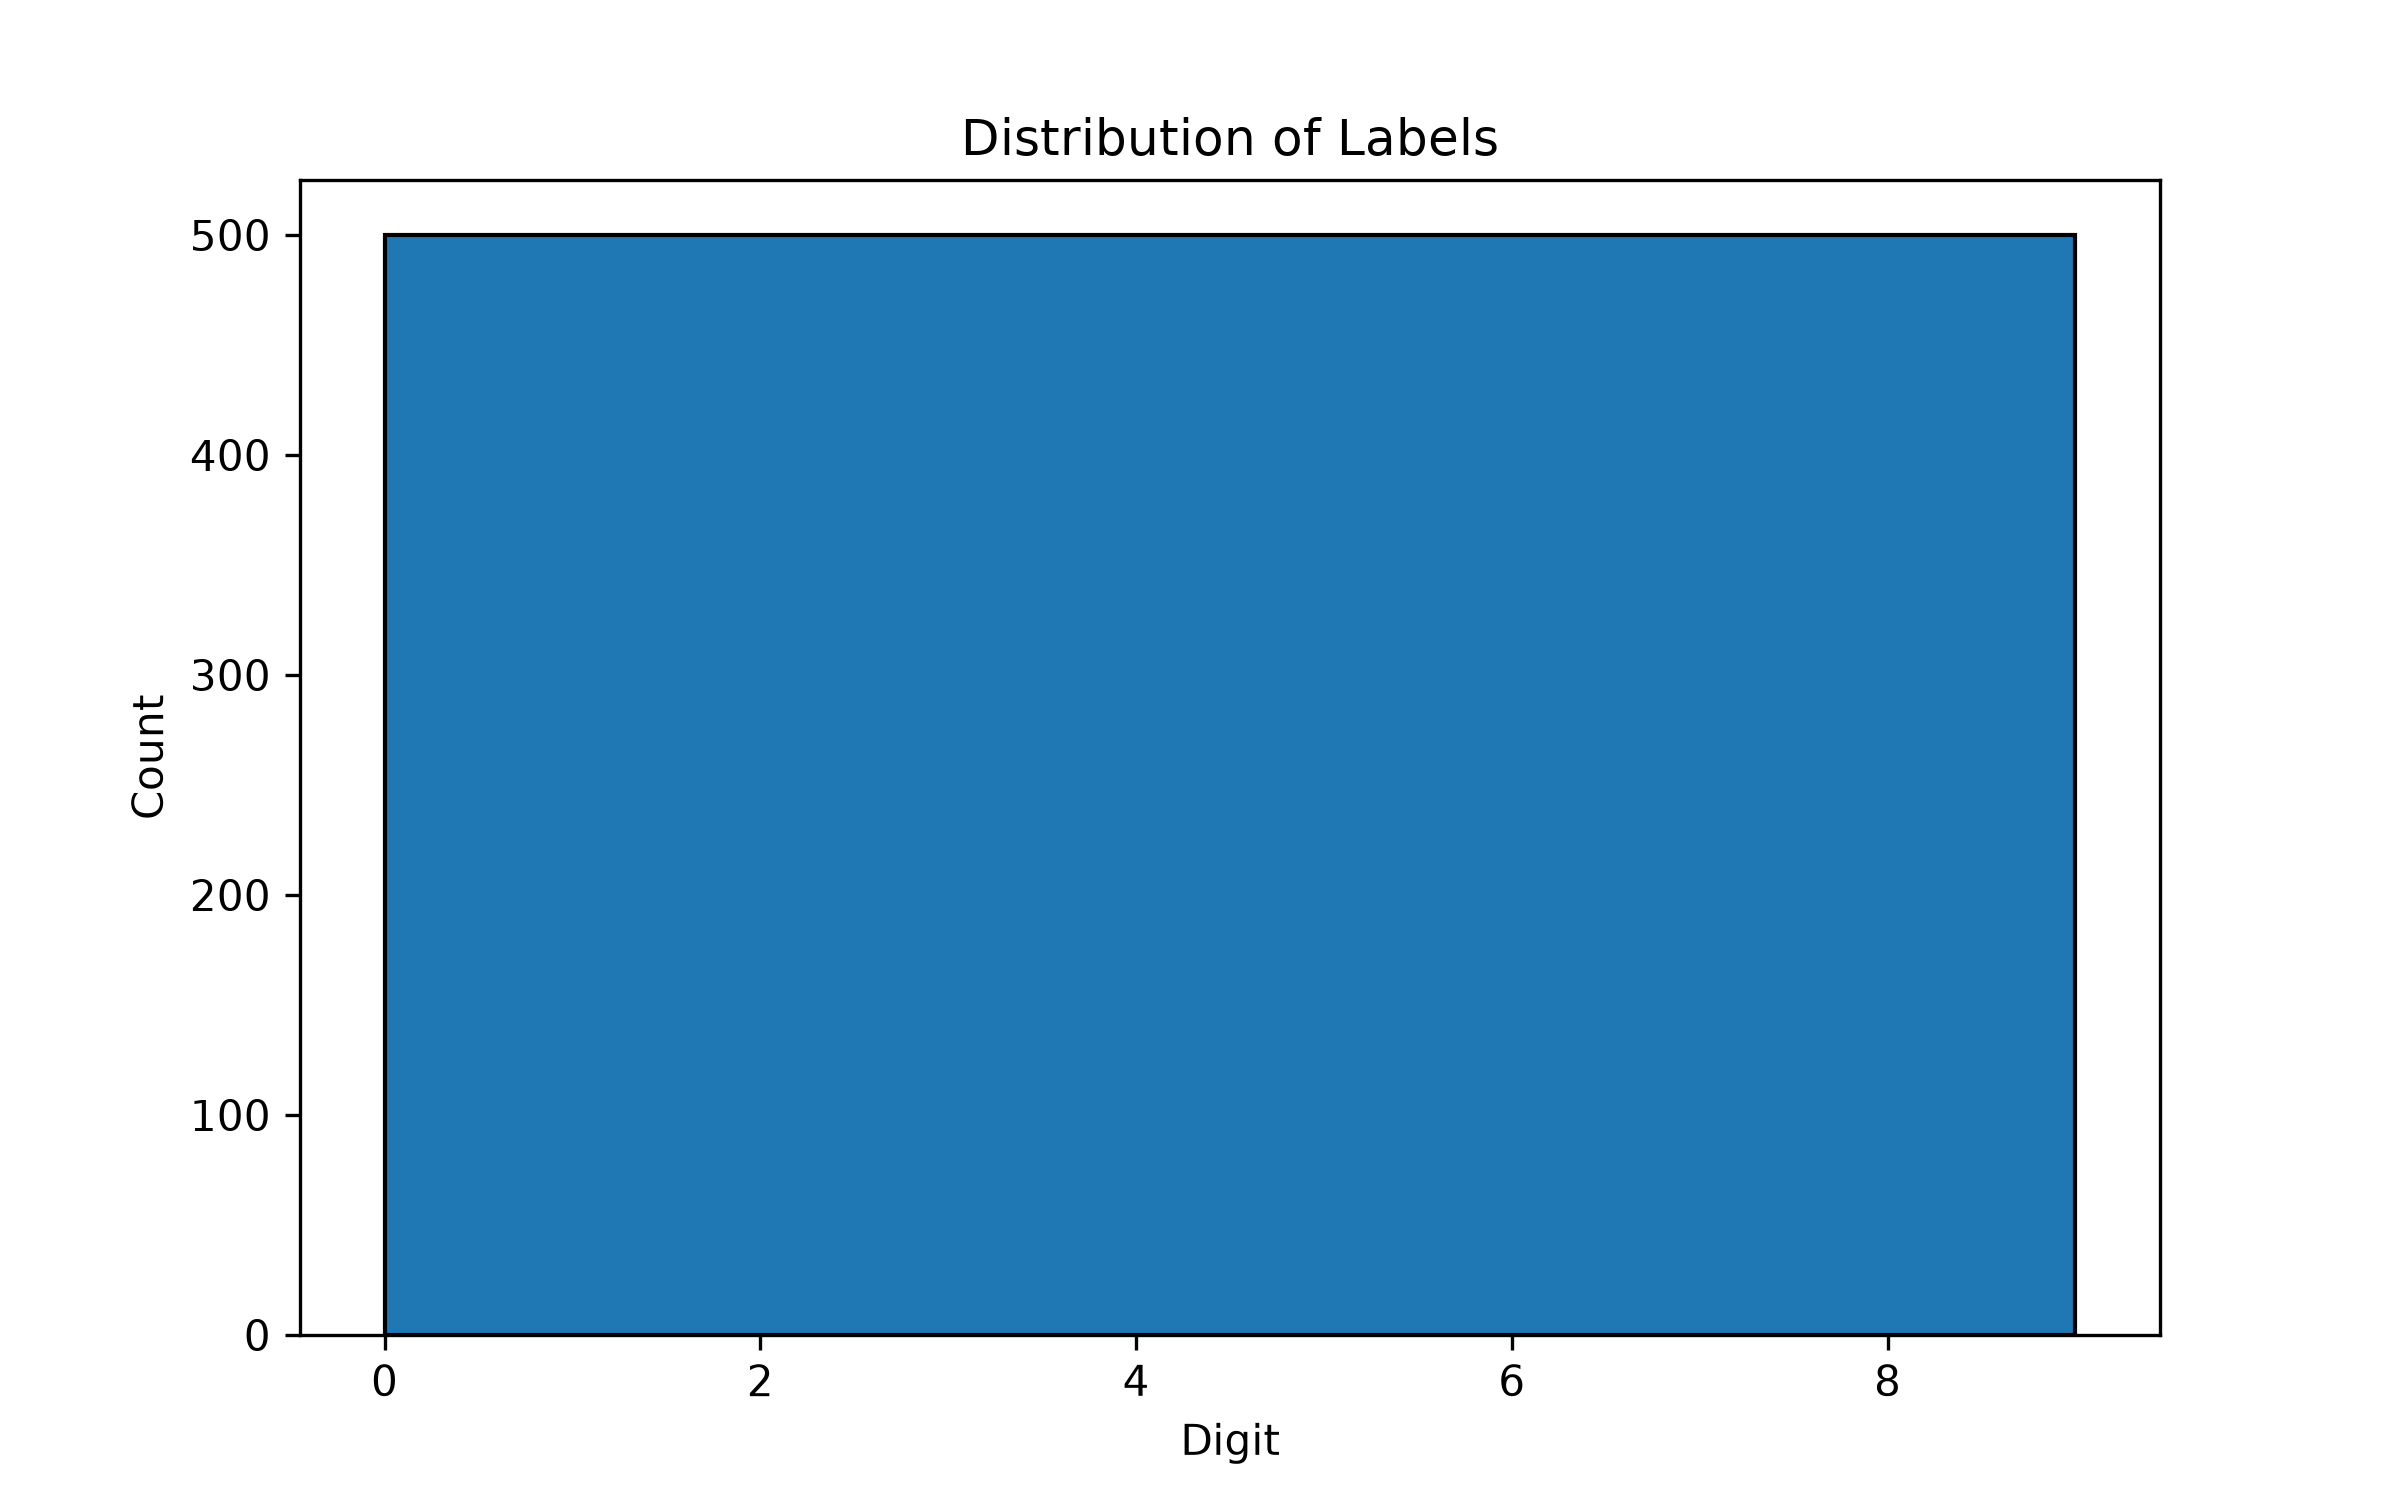
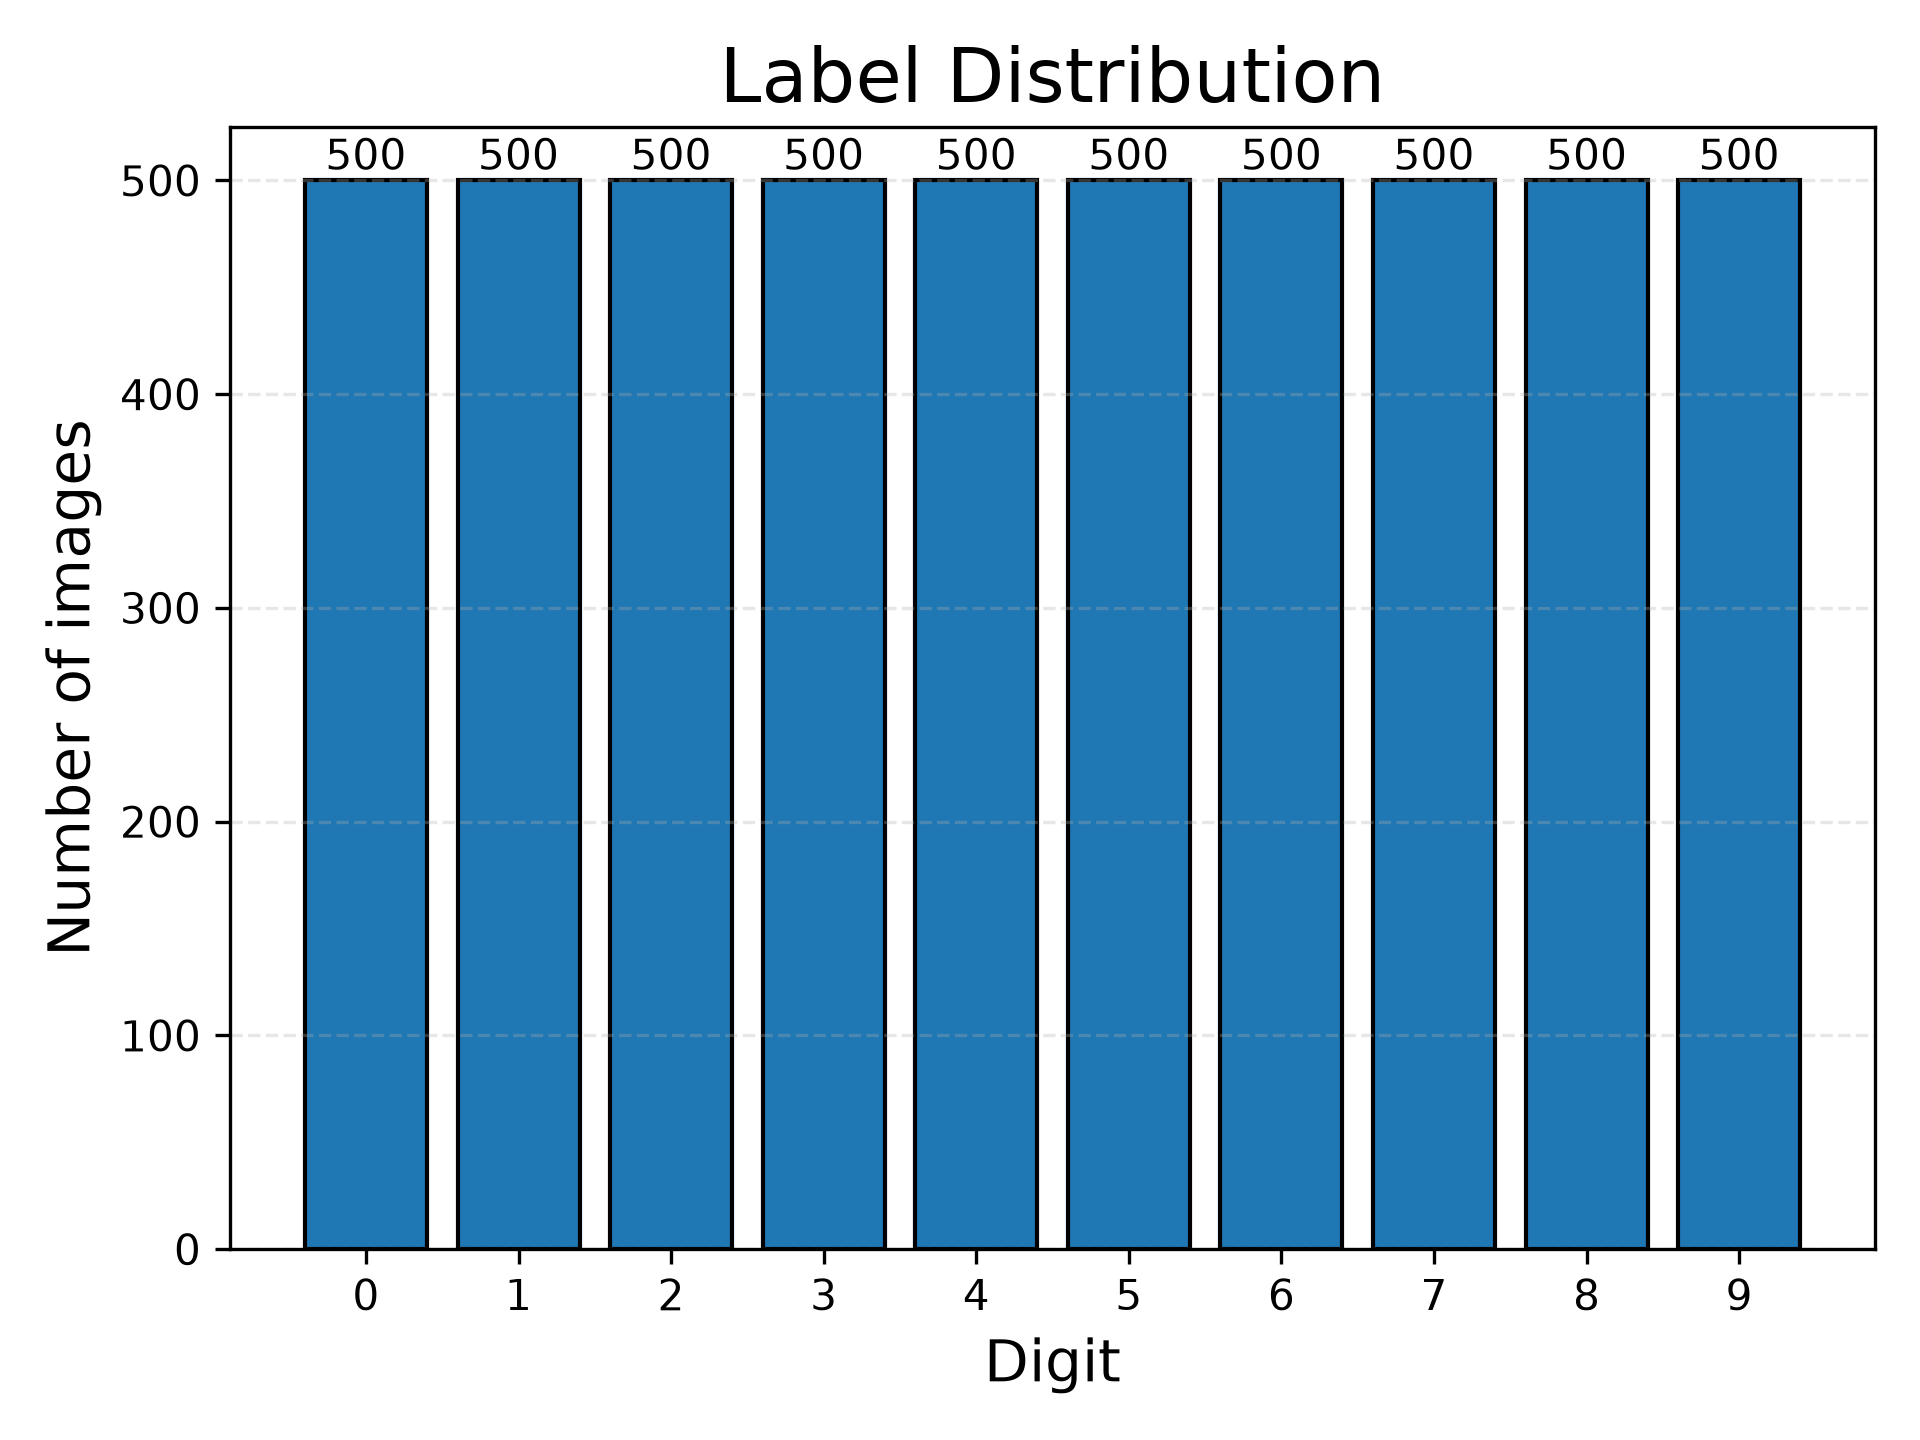
feat: Add EDA visualization, label_distribution, show_random_samples(), pixel_statics(), average_digit_image() Using Chat GPT

Changed region(s): [[0.0312, 0.0312, 0.9688, 0.9375], [0.5, 0.9375, 0.5938, 0.9688]]

diff --git a/src/data/eda.py b/src/data/eda.py
@@ -2,6 +2,8 @@ from pathlib import Path
 import pandas as pd
 import torch
 import matplotlib.pyplot as plt
+import random
+import numpy as np
 
 class DataAnalyzer:
     def __init__(self,x:torch.Tensor,y:torch.Tensor):
@@ -36,11 +38,51 @@ class DataAnalyzer:
 
     def label_distribution(self,save_path="figures/label_distribution.png") -> None:
         labels = self.y.numpy()
-        plt.figure(figsize=(8,5))
-        plt.hist(labels, bins=10, edgecolor="black", linewidth=1, histtype="stepfilled")
-        plt.title("Distribution of Labels")
-        plt.xlabel("Digit")
-        plt.ylabel("Count")
+        unique , counts = np.unique(labels, return_counts=True)
+        bars = plt.bar(unique,counts,edgecolor="black",linewidth=1)
+        plt.title("Label Distribution",fontsize=18)
+        plt.xlabel("Digit",fontsize=14)
+        plt.ylabel("Number of images",fontsize=14)
+        plt.xticks(unique)
+        for bar,count in zip(bars,counts):
+            plt.text(bar.get_x() + bar.get_width()/2,count+5,str(count),ha="center",fontsize=10)
+        plt.grid(axis='y',linestyle="--",alpha=0.3)
+        Path(save_path).parent.mkdir(parents=True, exist_ok=True)
+        plt.tight_layout()
+        plt.savefig(save_path,dpi=300)
+        plt.show()
+
+    def show_random_samples(self,num_samples:int=25,save_path="figures/random_samples.png") -> None:
+        fig,axes  = plt.subplots(5,5,figsize=(8,8))
+        indices = random.sample(range(len(self.x)),num_samples)
+
+        for ax, index in zip(axes.flat, indices):
+            image = self.x[index].reshape(20,20).T.numpy()
+            ax.imshow(image,cmap="gray")
+            ax.set_title(f"Label:{self.y[index].item()}",fontsize=8)
+            ax.axis("off")
+        plt.tight_layout()
+        Path(save_path).parent.mkdir(parents=True, exist_ok=True)
+        plt.savefig(save_path,dpi=300)
+        plt.show()
+        print(f"Saved -> {save_path}")
+
+    def pixel_statics(self) -> None:
+        print("\n" + "=" * 50)
+        print("Pixel Statistics")
+        print("=" * 50)
+
+        print(f"Minimum Pixel Value : {self.x.min().item():.2f}")
+        print(f"Maximum Pixel Value : {self.x.max().item():.2f}")
+        print(f"Mean Pixel Value    : {self.x.mean().item():.2f}")
+        print(f"Std Pixel Value     : {self.x.std().item():.2f}")
+
+    def average_digit_image(self,save_path:str="figures/average_digit_image.png") -> None:
+        average_image = self.x.mean(dim=0).reshape(20,20).T.numpy()
+        plt.figure(figsize=(5,5))
+        plt.imshow(average_image,cmap="gray")
+        plt.title("Average Digit ")
+        plt.axis("off")
         Path(save_path).parent.mkdir(parents=True, exist_ok=True)
         plt.savefig(save_path,dpi=300)
         plt.show()

diff --git a/train.py b/train.py
@@ -16,6 +16,9 @@ def main() -> None:
     analyzer.dataset_info()
     analyzer.missing_values()
     analyzer.label_distribution()
+    analyzer.show_random_samples()
+    analyzer.pixel_statics()
+    analyzer.average_digit_image()
     print("X Shape:", x.shape)
     print("Y Shape:", y.shape)
     x_train, x_val, x_test, y_train, y_val, y_test = DataPreprocessor.split_data(x, y)
